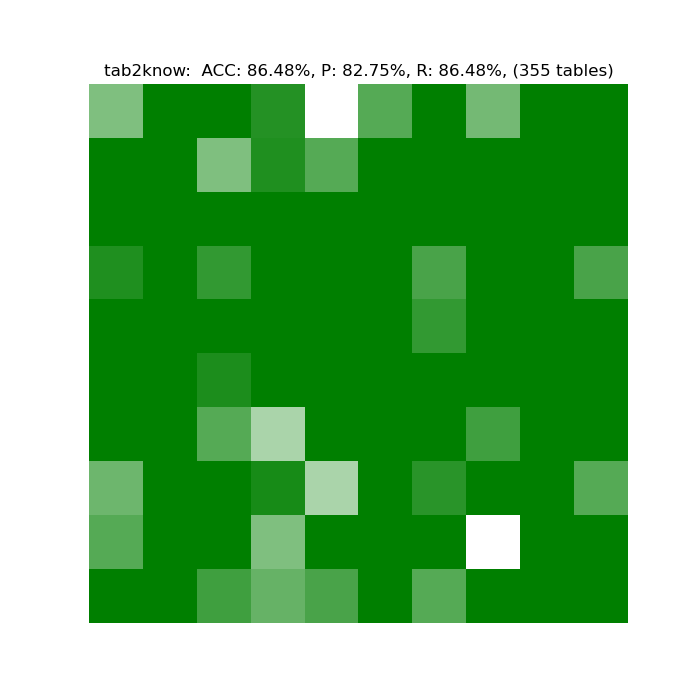
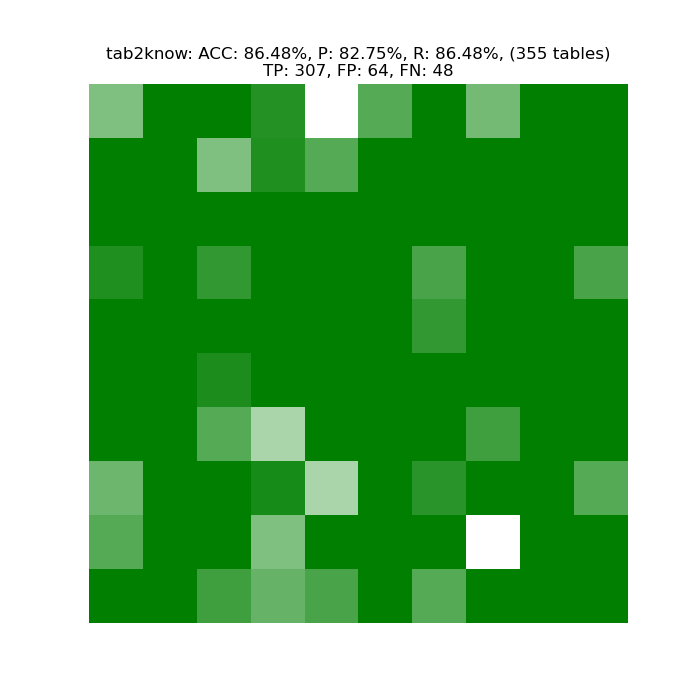
Added better results and calculated again evenry metric

Changed region(s): [[0.15, 0.06, 0.87, 0.12]]

diff --git a/core/analysis/results_plotter.py b/core/analysis/results_plotter.py
@@ -1,4 +1,5 @@
 import os.path
+import json
 
 import matplotlib.pyplot as plt
 import numpy as np
@@ -16,7 +17,52 @@ def show_cmap():
     plt.show()
 
 
-def plot_results(TP, TN, FP, FN, files_percentage_ok, title="Results pdf2info:", color_min=None, color_max=None, cmap=None, figsize=(7,7), save_to=None):
+def create_results_plot(json_data:dict, path_out:str):
+    data = []
+    methods = list(json_data.keys())
+    for k, v in json_data.items():
+        data.append(list(v.values()))
+    fig = plt.subplots(figsize=(16,9))
+    bar_width = 0.20
+    first_key = list(json_data.keys())[0]
+    X = np.arange(len(json_data[first_key]))
+    for i, d in enumerate(data):
+        plt.bar(X + i*bar_width, d, width=bar_width, label=methods[i])
+    scores = list(json_data[first_key].keys())
+    plt.xticks([r + bar_width for r in range(len(scores))], scores)
+    plt.legend()
+    plt.title("Methods rsults")
+    plt.savefig(path_out)
+
+def create_csv(path:str, path_out:str):
+    with open(path, 'r') as file:
+        json_data = json.load(file)
+    header_Written = False
+    keys_values = []
+    with open(path_out, 'w') as file_out:
+        for method_used in json_data.keys():
+            if not header_Written:
+                header_Written = True
+                keys_values = list(json_data[method_used].keys())
+                file_out.write("method,{}\n".format(",".join(keys_values)))
+            file_out.write("{},{}\n".format(method_used, ",".join([str(json_data[method_used][k]) for k in keys_values])))
+
+
+def update_results(save_to:str, method_used:str, new_data:dict):
+    path = os.path.join(save_to, "results.json")
+    if os.path.exists(path):
+        with open(path, 'r') as file:
+            json_data = json.load(file)
+    else:
+        json_data = {}
+    json_data[method_used] = new_data
+    with open(path, 'w') as file_out:
+        json.dump(json_data, file_out, indent=2)
+    create_csv(path, os.path.join(save_to, "results.csv"))
+    create_results_plot(json_data, os.path.join(save_to, "results.png"))
+
+
+def plot_save_results(TP, TN, FP, FN, files_percentage_ok, method_used="pdf2info", color_min=None, color_max=None, cmap=None, figsize=(7,7), save_to=None, show_fig:bool=True):
     if cmap is None: cmap = DEFAULT_CMAP
     fig = plt.figure(figsize=figsize)
 
@@ -35,12 +81,25 @@ def plot_results(TP, TN, FP, FN, files_percentage_ok, title="Results pdf2info:",
     N = 0
     acc = (TP+TN)/(P+N)
     accuracy_over_pdfs = np.mean(y)
-    plt.title("{} ACC: {:.2f}%, P: {:.2f}%, R: {:.2f}%, ({} tables)".format(title,  acc*100, precision*100, recall*100, tables_num))
-    #plt.title("{} acc: {:.2f}%".format(title, accuracy_over_pdfs))
+    data = {
+           "ACC": round(acc*100, 2),
+           "P": round(precision*100, 2),
+           "R": round(recall*100, 2),
+           "TP": TP,
+           "FP": FP,
+           "FN": FN,
+           "TABLES_TOTAL": tables_num,
+       }
+    interesting_metrics = "{}: ACC: {:.2f}%, P: {:.2f}%, R: {:.2f}%, ({} tables)".format(method_used,  acc*100, precision*100, recall*100, tables_num)
+    all_metrics_row = "TP: {}, FP: {}, FN: {}".format(TP,FP,FN)
+    plt.title(interesting_metrics + "\n" + all_metrics_row)
     plt.axis('off')
     plt.imshow(y, cmap=cmap, vmin=color_min, vmax=color_max)
-    plt.show()
+    if show_fig:
+        plt.show()
     plt.draw()
     if save_to is not None:
-        fig.savefig(save_to)
+        filename = "{}_on_DATASET.png".format(method_used)
+        fig.savefig(os.path.join(save_to, filename))
+        update_results(save_to, method_used, data)
 

diff --git a/analysis/pdf2info_tests/show_results_of_method.py b/analysis/pdf2info_tests/show_results_of_method.py
@@ -1,6 +1,6 @@
 import sys
 sys.path.insert(0, "../../")
-from core.analysis.results_plotter import plot_results
+from core.analysis.results_plotter import plot_save_results
 from core.analysis.check_results_over_groundtruth import load_groundtruth, check_results
 
 
@@ -8,10 +8,10 @@ def create_plots_results(method_used:str, show_fig:bool=True):
     csv_folder = "csv_extracted"
     gth = load_groundtruth("../DATASET/GROUNDTRUTH_DATASET.csv")
     TP, TN, FP, FN, files_percentage_ok = check_results(csv_folder, gth, split_char='_')
-    plot_results(TP, TN, FP, FN, files_percentage_ok, title=method_used,  color_min=0, color_max=100, save_to="../results/{}_on_DATASET.png".format(method_used))
+    plot_save_results(TP, TN, FP, FN, files_percentage_ok, method_used=method_used,  color_min=0, color_max=100, save_to="../results", show_fig=show_fig)
 
 
 if __name__ == '__main__':
-    method_used = 'linesearch'
+    method_used = 'camelot'
     create_plots_results(method_used, show_fig=True)
 

diff --git a/core/extractor_linesearch.py b/core/extractor_linesearch.py
@@ -33,7 +33,7 @@ def extract_tables(path):
     text = read_and_delete_file(tmp_fn)
 
     # Get intereting words by analyzing html
-    #interesting_words = find_pdfminer_interesting_lines(path)
+    interesting_words = find_pdfminer_interesting_lines(path)
 
     tables = []
     remaining_text = []
@@ -48,10 +48,9 @@ def extract_tables(path):
         arrived_at_table = curr_line.startswith("table") or curr_line.startswith('tab.')
 
         if not arrived_at_table:
-            # TODO: use interesting_lines and check if we are in an interesting line.
-            # TODO: then arrived_at_table = True
-            pass
-
+            words_found = sum([1 for w in interesting_words if w in curr_line])
+            if words_found > 0:
+                arrived_at_table = True
 
         if arrived_at_table:
             logging.debug("Found one table with pdfBOX")

diff --git a/core/analyze_pdfminer.py b/core/analyze_pdfminer.py
@@ -46,7 +46,10 @@ def find_pdfminer_interesting_lines(path):
         if 'ID' in row[0]:
             continue
         data_row = row[1].split('\n')
-        data += data_row
+        for d in data_row:
+            # filter only numbers
+            if d.replace('.','',1).replace('%','').replace('±','').isdigit():
+                data += d
     data = [d for d in data if len(d) > 1]
     return data
 
@@ -54,7 +57,7 @@ def find_pdfminer_interesting_lines(path):
 
 if __name__ == '__main__':
     logging.basicConfig(level=logging.DEBUG+1)
-    path = "../analysis/DATASET/chunks/papers_chunk_1/2211.09388.pdf"
+    path = "../analysis/DATASET/chunks/papers_chunk_4/2211.07363.pdf"
     intereseting_words = find_pdfminer_interesting_lines(path)
     if intereseting_words is not None:
         print(intereseting_words)

diff --git a/analysis/tab2know_tests/show_results_tab2know.py b/analysis/tab2know_tests/show_results_tab2know.py
@@ -1,6 +1,6 @@
 import sys
 sys.path.insert(0, "../../")
-from core.analysis.results_plotter import plot_results
+from core.analysis.results_plotter import plot_save_results
 from core.analysis.check_results_over_groundtruth import load_groundtruth, check_results
 
 
@@ -8,4 +8,4 @@ if __name__ == '__main__':
     csv_folder="out_tab2know/csv"
     gth = load_groundtruth("../DATASET/GROUNDTRUTH_DATASET.csv")
     TP, TN, FP, FN, files_percentage_ok = check_results(csv_folder, gth, split_char='-')
-    plot_results(TP, TN, FP, FN, files_percentage_ok, title="tab2know: ", color_min=0, color_max=100, save_to="../results/tab2know_on_DATASET.png")
+    plot_save_results(TP, TN, FP, FN, files_percentage_ok, method_used="tab2know", color_min=0, color_max=100, save_to="../results")

diff --git a/analysis/pdf2info_tests/extract_with_all_methods.py b/analysis/pdf2info_tests/extract_with_all_methods.py
@@ -13,7 +13,8 @@ if __name__ == '__main__':
         level=logging.INFO,
         format='%(asctime)s %(levelname)s: %(message)s', datefmt='%m/%d/%Y %I:%M:%S %p'
     )
-    all_methods = extraction_methods_names() + ['all']
+    all_methods = extraction_methods_names()
+    all_methods.remove('tab2know')
     for method_used in all_methods:
         logging.info("Extracting with {}".format(method_used))
         execute_extraction_with_method(method_used, PARALLEL=True)

diff --git a/core/pdf2info.py b/core/pdf2info.py
@@ -4,7 +4,7 @@ from core.extractor import extract_tables, extraction_methods_names as get_ex_na
 from core.operations import post_prpocess, preprocess_file
 
 
-def extraction_methods_names():
+def extraction_methods_names() -> list:
     return get_ex_names()
 
 
